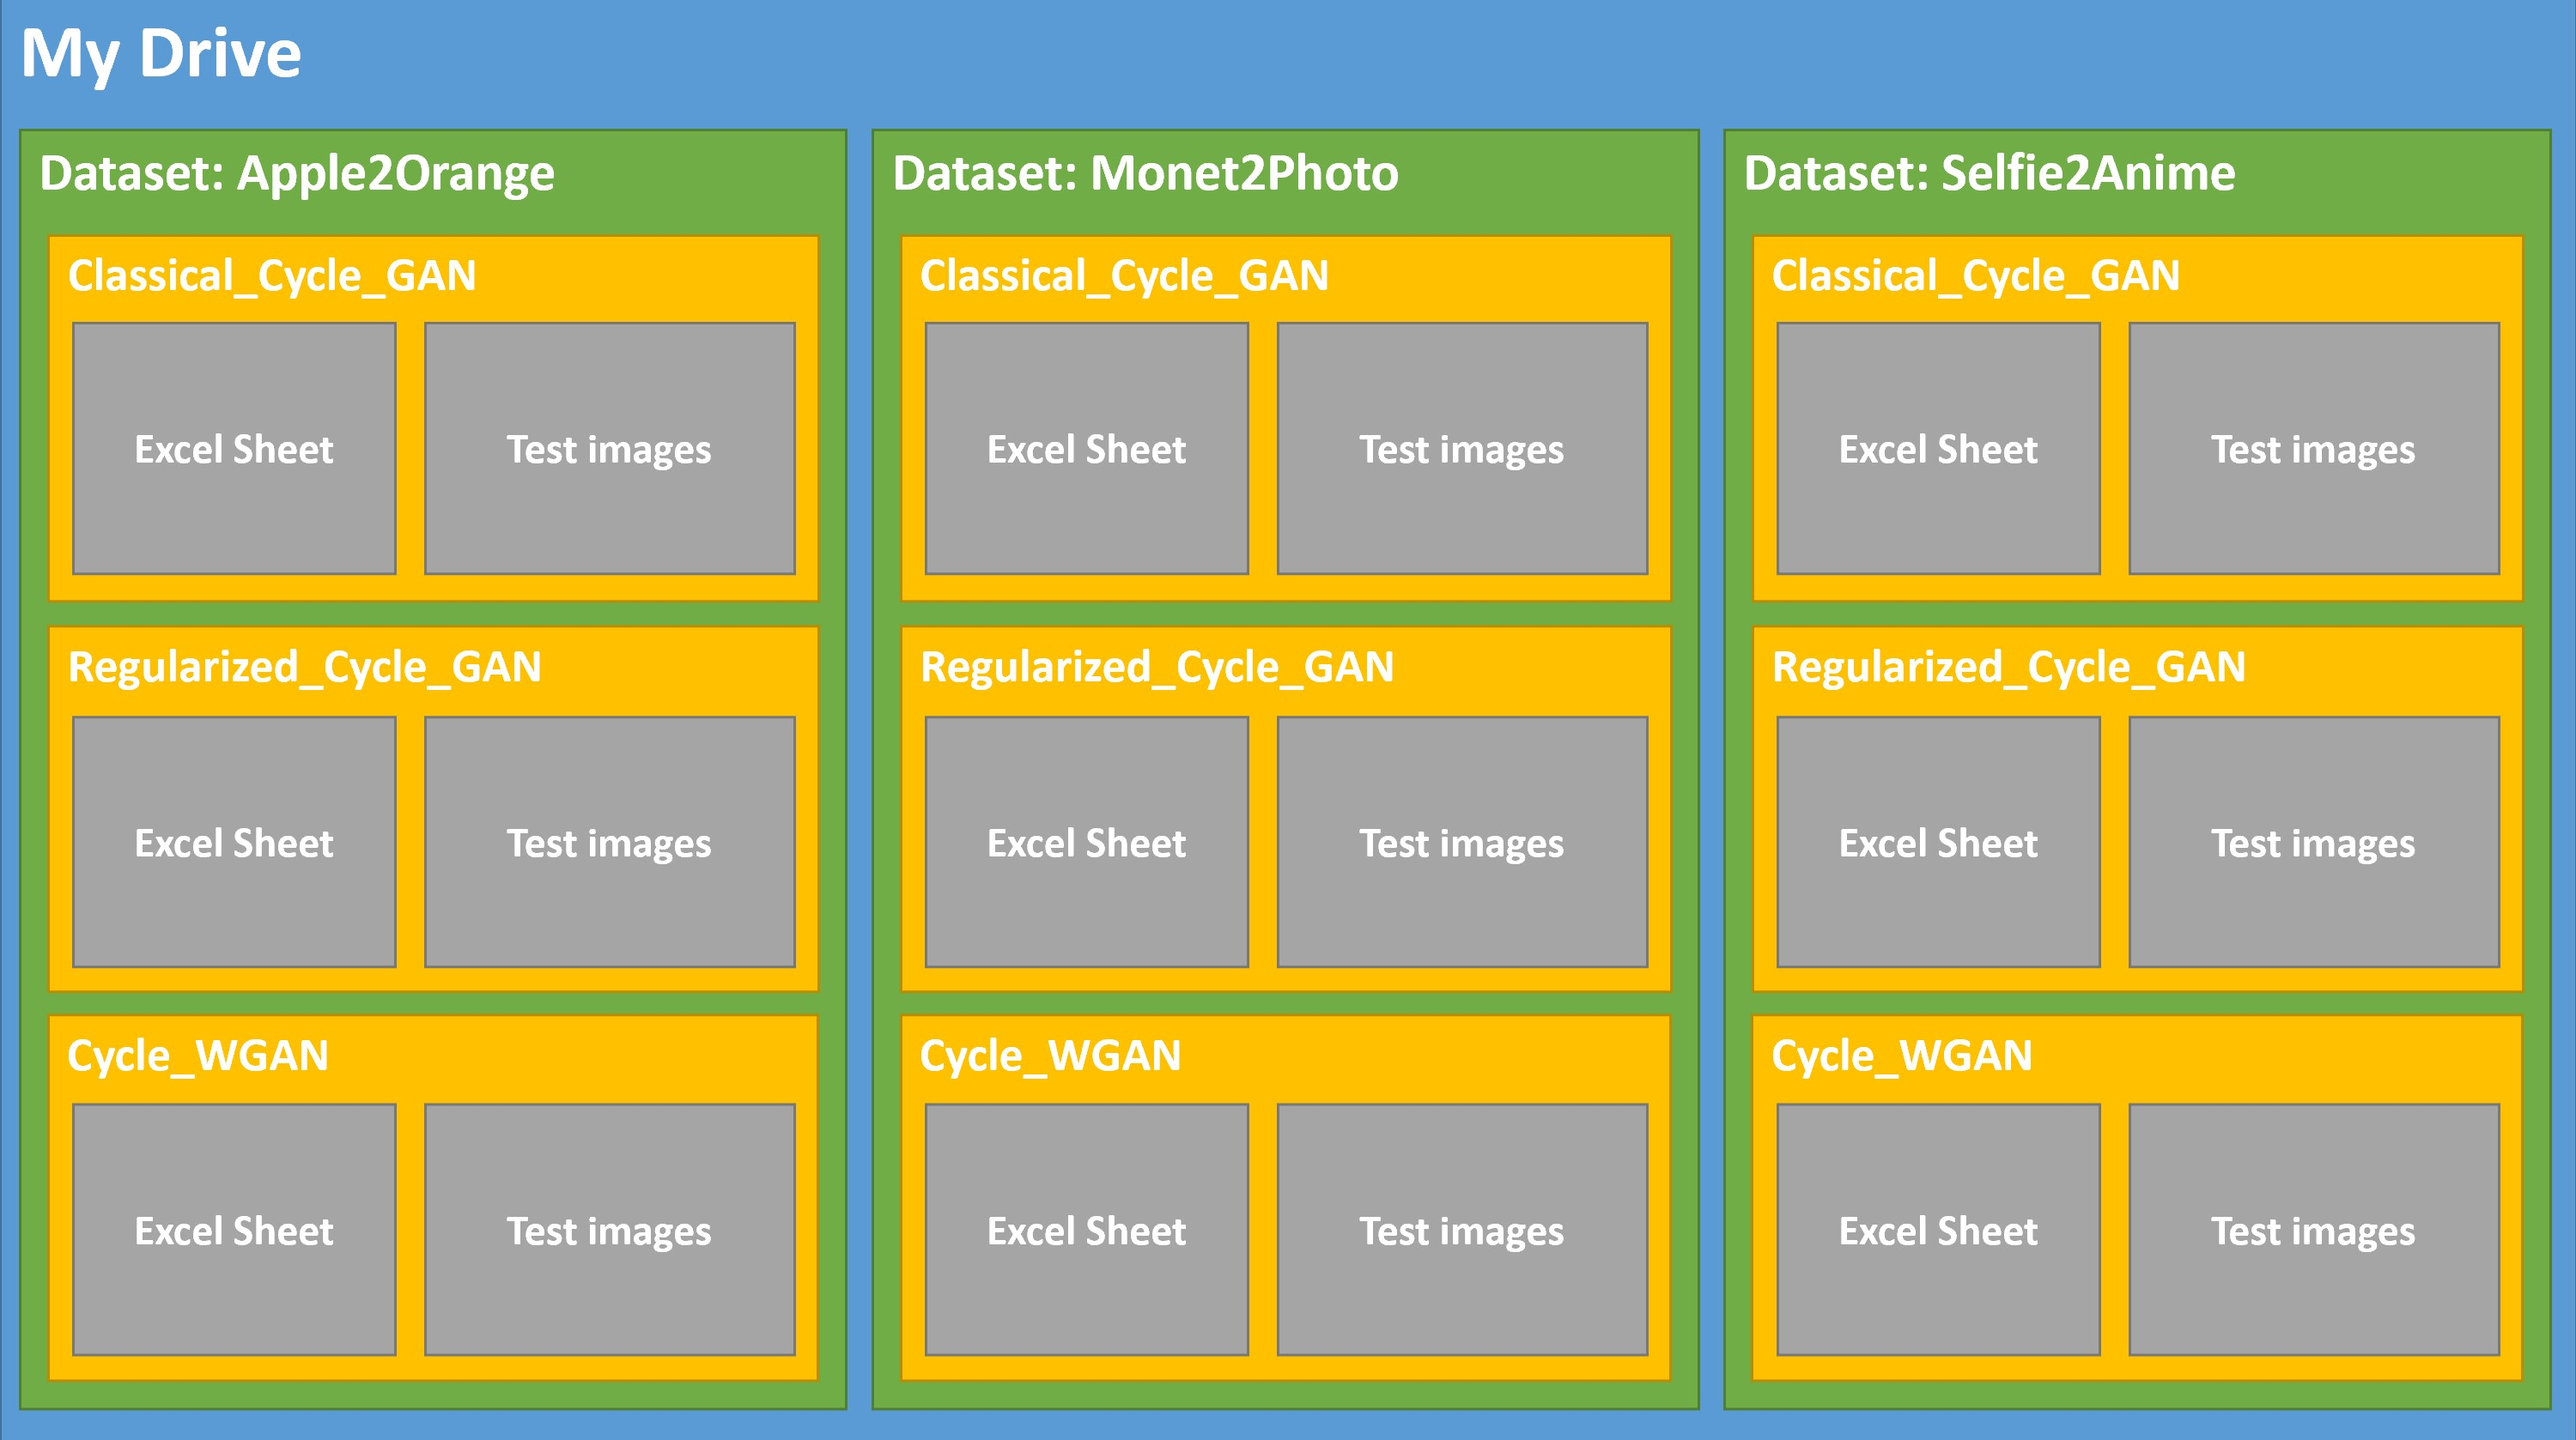
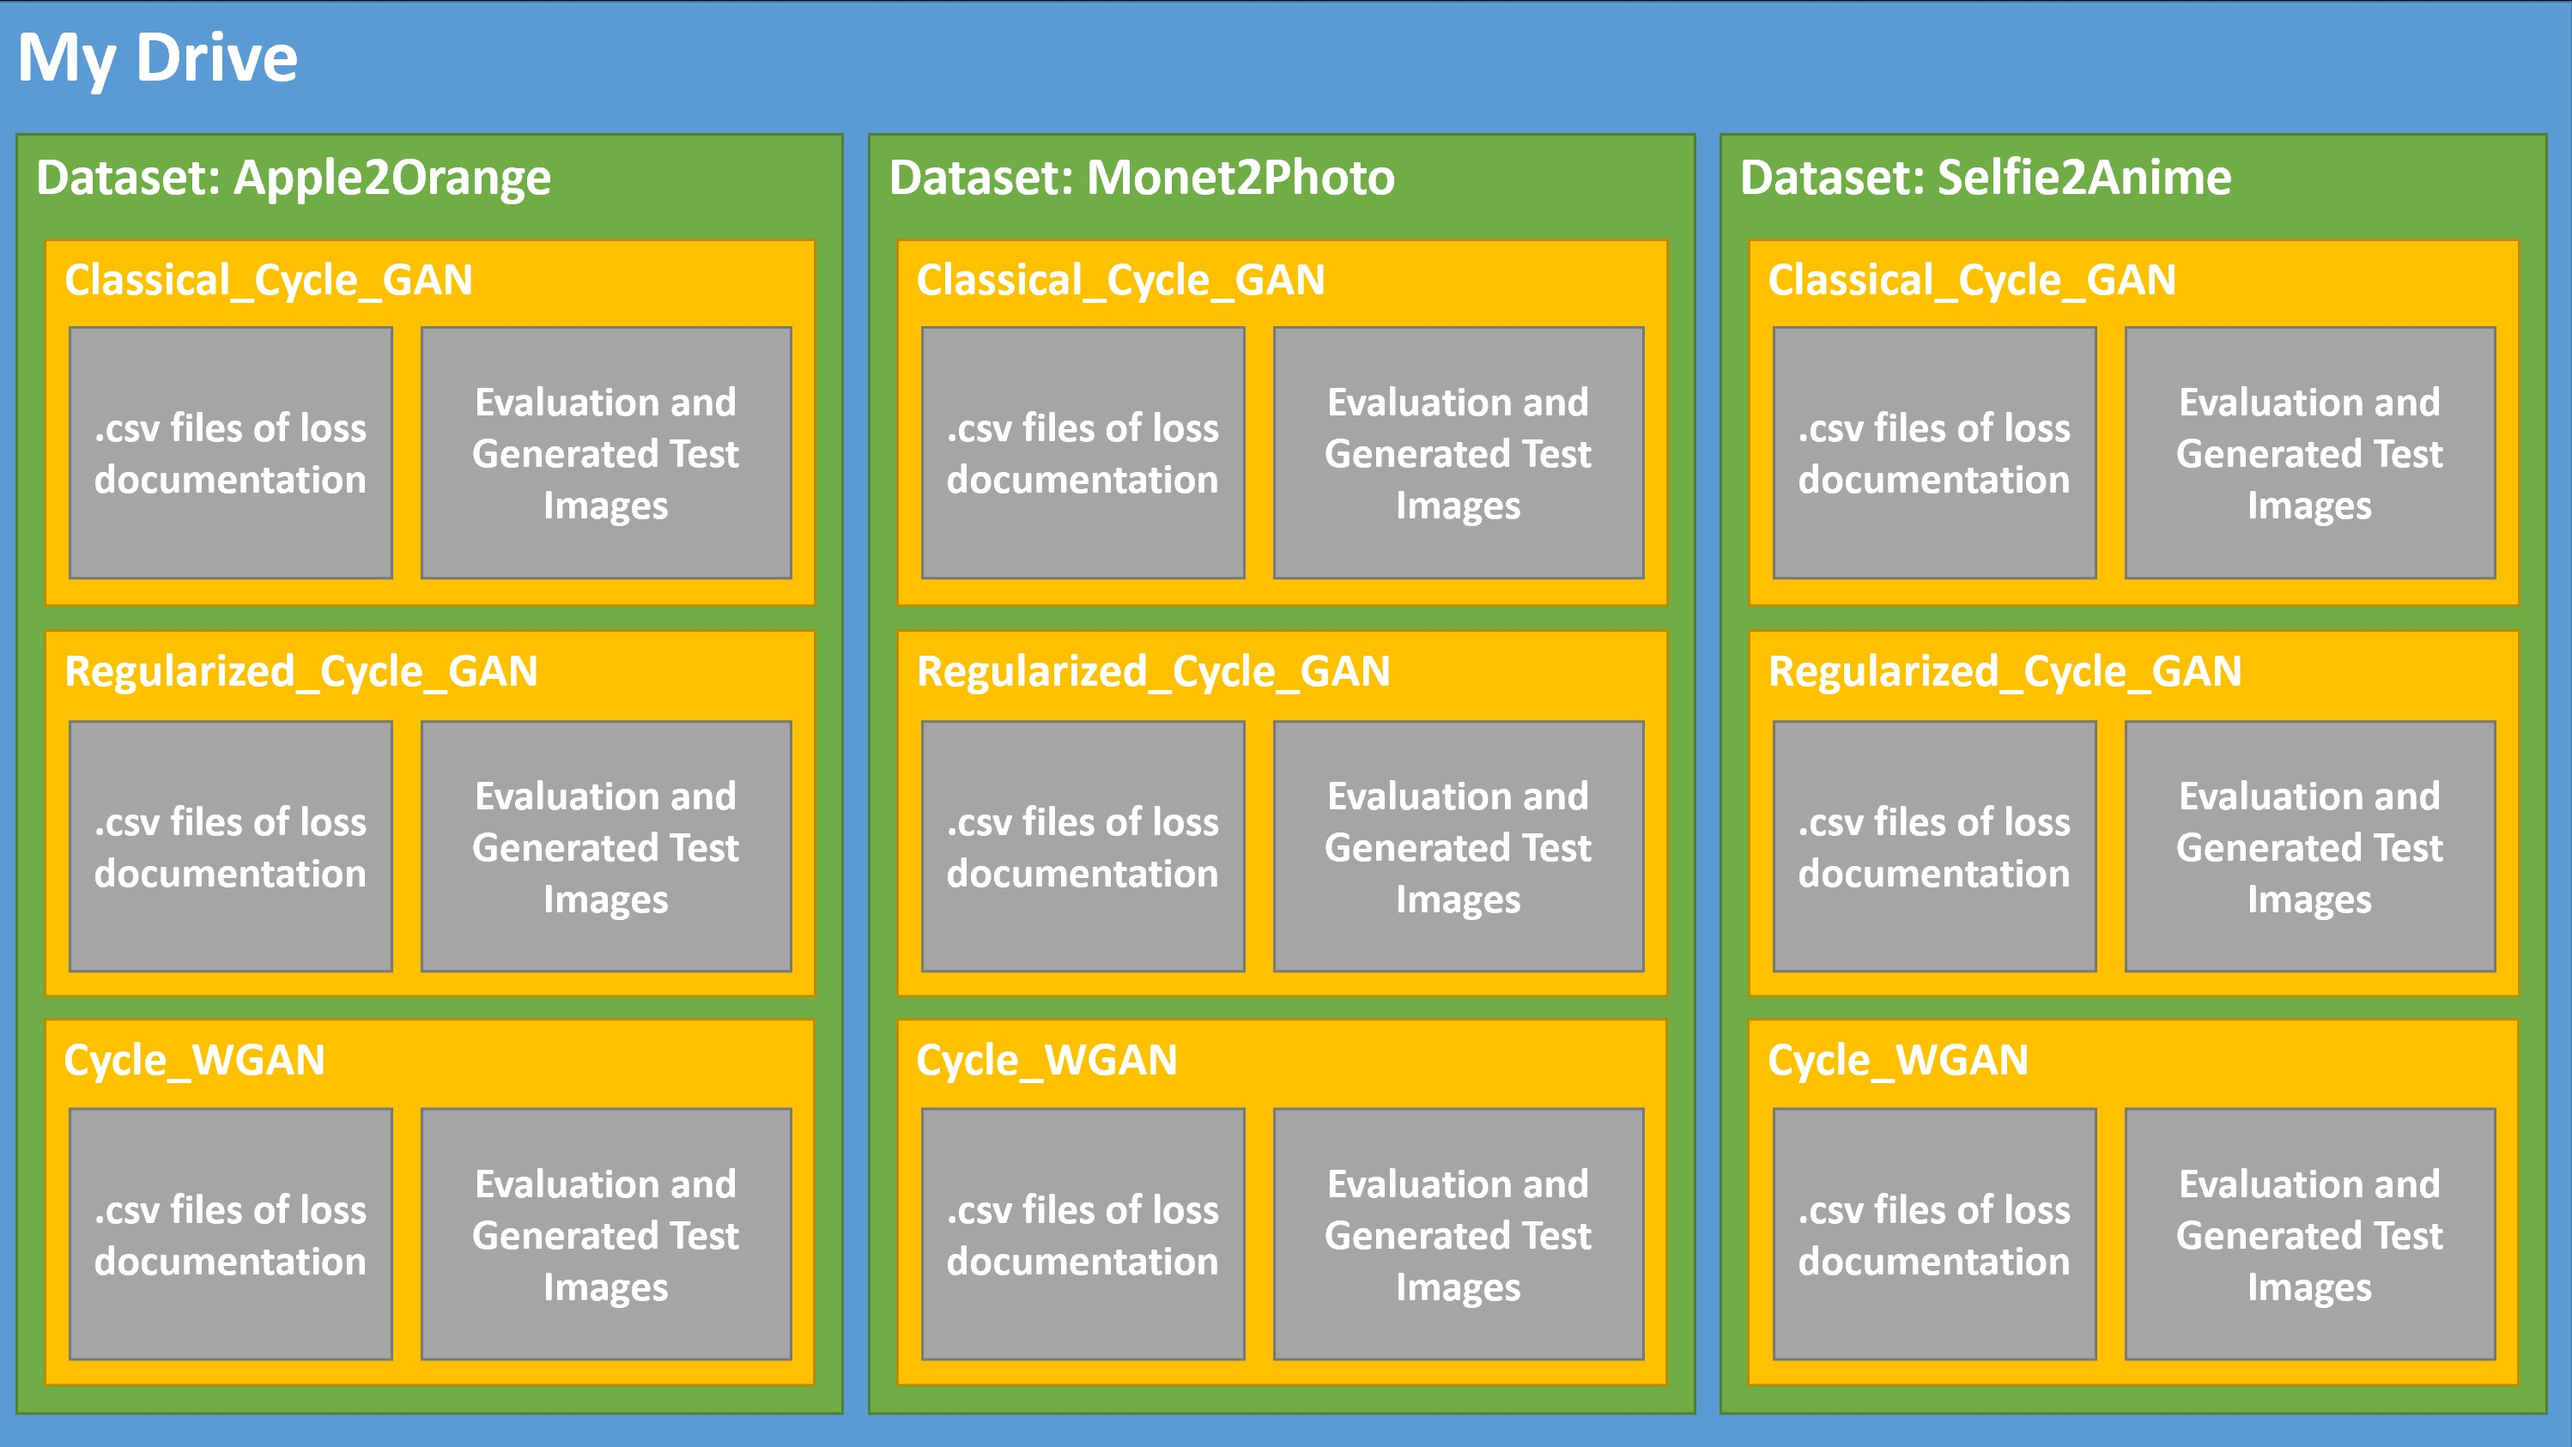
angepasst bild

diff --git a/Final_Project/Latex_Documentation/main.tex b/Final_Project/Latex_Documentation/main.tex
@@ -110,14 +110,14 @@
 
 \Authors{Fabian Imkenberg, Jacqueline Naether}
 
-\Keywords{CycleGAN --- Unpaired Image-to-Image Translation --- Keyword3} 
+\Keywords{CycleGAN --- Unpaired Image-to-Image Translation --- CycleWGAN -- Regularized CycleGAN} 
 \newcommand{\keywordname}{Keywords} % Defines the keywords heading name
 
 %----------------------------------------------------------------------------------------
 %	ABSTRACT
 %----------------------------------------------------------------------------------------
 
-\Abstract{Lorem ipsum dolor sit amet, consectetuer adipiscing elit. Ut purus elit, vestibulum ut, placerat ac, adipiscing vitae, felis. Curabitur dictum gravida mauris. Nam arcu libero, nonummy eget, consectetuer id, vulputate a, magna. Donec vehicula augue eu neque. Pellentesque habitant morbi tristique senectus et netus et malesuada fames ac turpis egestas. Mauris ut leo. Cras viverra metus rhoncus sem. Nulla et lectus vestibulum urna fringilla ultrices. Phasellus eu tellus sit amet tortor gravida placerat. Integer sapien est, iaculis in, pretium quis, viverra ac, nunc. Praesent eget sem vel leo ultrices bibendum. Aenean faucibus. Morbi dolor nulla, malesuada eu, pulvinar at, mollis ac, nulla. Curabitur auctor semper nulla. Donec varius orci eget risus. Duis nibh mi, congue eu, accumsan eleifend, sagittis quis, diam. Duis eget orci sit amet orci dignissim rutrum.}
+\Abstract{In this project, we reimplement the paper "Unpaired Image-to-Image Translation using Cycle-Consistent Adversarial Networks" and test its performance with three different datasets, from which two were given by the paper and another new one. After reimplementation of the Cycle \ac{GAN} with minor justified changes, two modifications are applied. This results in the three different variations of Cycle\ac{GAN}s, Classical Cycle\ac{GAN}, Regularized Cycle\ac{GAN}, Cycle \ac{WGAN}. After the implementation follows the analysis of the performance of the different \ac{GAN} variations and the different datasets. Here it becomes clear that the Cycle\ac{GAN} already shows progress after a few training steps, whereas changing colours through the Cycle\ac{GAN} is learned much faster and easier than learning more complicated features such as eyes.}
 
 %----------------------------------------------------------------------------------------
 
@@ -442,9 +442,7 @@ Another interesting point of analysis is the examination of the various losses o
 The adversarial loss in \autoref{fig:componentsGeneratorLossMonet2Photo}, however, never exceeds the value of the weighted overall loss, as is the case with dataset \textit{apple2orange}. But here too, despite all this, the other losses show a clear downward trend. Accordingly, it can be said that here too it is clear that the network improves over the course of the training.
 
 \subsection{Comparison of the Cycle\ac{GAN} variations}
-\autoref{fig:generatorCycleGANTypes}
-\autoref{fig:discriminatorCycleGANTypes}
-
+The different Cycle\ac{GAN} variations show different progressions in the losses, see \autoref{fig:generatorCycleGANTypes} and \autoref{fig:discriminatorCycleGANTypes}. While the discriminator losses show only a very slight downward trend within the three epochs, this trend can be seen more clearly in the generator losses. While the curve for the Cycle\ac{WGAN} generator loss is much smoother, it is much more erratic for the discriminator than for the other variations. The lowest generator loss is achieved by the classic Cycle\ac{GAN}, whereas this is not the case with the discriminator. This may also be related to the fact that better generated images are also more difficult to detect by a discriminator and vice versa. On the basis of these results, it is not possible to say whether one of the networks works better or worse than another. For this, an even longer training period would provide more information. 
 
 \begin{figure}[htb] 
 	\centering 
@@ -460,13 +458,8 @@ The adversarial loss in \autoref{fig:componentsGeneratorLossMonet2Photo}, howeve
 	\label{fig:discriminatorCycleGANTypes}
 \end{figure}
 
-\begin{enumerate}[noitemsep] % [noitemsep] removes whitespace between the items for a compact look
-	\item Welche Ergebnisse erzielt standard cycleGAN?
-	\item Welche Ergebnisse erzielt regularized cycle GAN?
-	\item Welche Ergebnisse erzielt wasserstein cycle gan?
-	\item Welche Ergebnisse zielen sie im vergleich zu einander
-	\item Qualitativer Bildvergleich an Apple2Orange
-\end{enumerate}
+Another possibility is to compare the quality of the sample images. \autoref{fig:ClassicalCycleGANExample} shows an already great success after three epochs in the translation of an apple image into an orange image. In comparison, the generated images of the other variations, see \autoref{fig:CycleWGANExample} and \autoref{fig:RegularizedCycleGANExample}, look much less like oranges. However, no qualitative statement can be made about whether the generated image of the Regularised Cycle\ac{GAN} or Cylce{WGAN} looks more realistic than the other. Both images are very similar although the losses differ in numbers.
+You can see the transitions between the individual fruits quite well despite the generated images. The borders were not changed much by any of the Cycle\ac{GAN} variants. This shows that all Cycle\ac{GAN} variations have basically recognised the fruit feature as such.
 
 \begin{figure}[htb] 
 	\centering 
@@ -514,8 +507,24 @@ The adversarial loss in \autoref{fig:componentsGeneratorLossMonet2Photo}, howeve
 \end{figure}
 
 \subsection{Limitations of the Cycle\ac{GAN} architecture}
-with the Selfie2Anime dataset - Farben gut und schnell wandelbar, Konturen nicht -> Beispiel Augen Selfie2Anime - Irgendeines der Paper hier citen, das stand da auch drin!
-%------------------------------------------------
+As the training of the \textit{selfie2anime} dataset takes too long for this project framework, only very few training steps (300) could be carried out and only one test could be conducted after them. The result is shown in \autoref{fig:CycleWGANSelfieExample}. You can see that the colours are transformed well and quickly, whereas the contours are not. This can be seen very clearly in the area of the eyes, for example.
+
+This result is also reflected in the comparison with the \textit{apple2orange} example, where the colour of the apples changes quite quickly to orange, but the contours remain almost untouched.
+
+\begin{figure}[htb] 
+	\centering 
+\begin{subfigure}[b]{0.45\linewidth}
+	\includegraphics[width=\linewidth]{RegularizedCycleGANOriginalSelfieDomainA}
+	\caption{Original example image of domain A}
+\end{subfigure}
+\hfill
+\begin{subfigure}[b]{0.45\linewidth}
+	\includegraphics[width=\linewidth]{RegularizedCycleGANGenAnimeDomainB}
+	\caption{Generic image after 300 training steps}
+	\end{subfigure}
+\caption{Example of an image processed by the Regularized Cycle\ac{GAN} from domain A to B of dataset \textit{selfie2anime}}
+\label{fig:CycleWGANSelfieExample}
+\end{figure}
 
 
 \section{Conclusion and Future work}
